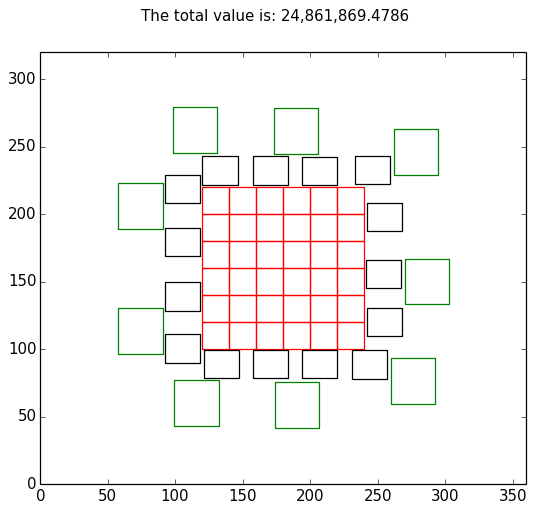
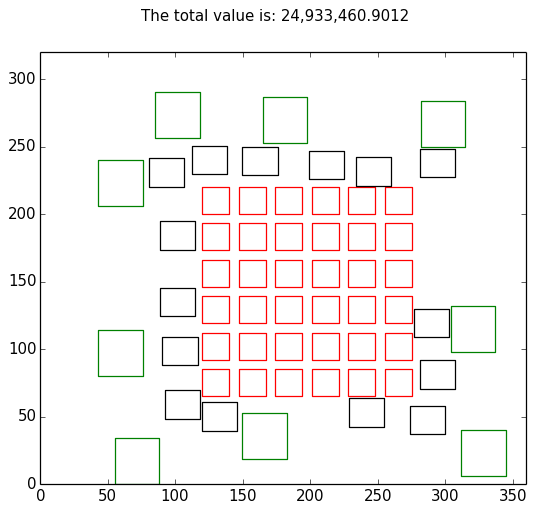
update

diff --git a/expanding_universe.py b/expanding_universe.py
@@ -25,7 +25,7 @@ def set_initial_map(total_houses):
     counter = 0
     for i in range(grid_size):
 
-        x = (X_DIMENSION - (classes.House.width * (grid_size - (2 * i)))) / 2
+        x = (X_DIMENSION - (classes.House.width * (grid_size - (2.7 * i)))) / 2
 
 
         for j in range(grid_size):
@@ -33,7 +33,7 @@ def set_initial_map(total_houses):
             if counter == h_number:
                 break
 
-            y = (Y_DIMENSION + (classes.House.length * (grid_size - 2 - (2 * j)))) / 2
+            y = (Y_DIMENSION + (classes.House.length * (grid_size - 2 - (2.7 * j)))) / 2
 
             counter += 1
             house = classes.House(x, y)
@@ -54,26 +54,26 @@ def set_initial_map(total_houses):
 
             if (bungalow.left_bottom[0] <= X_DIMENSION / 2) and (bungalow.left_bottom[1] >= Y_DIMENSION / 2) and olap:
                 while olap == True:
-                    bungalow = helpers.move(bungalow, 'left', 2)
-                    bungalow = helpers.move(bungalow, 'up', 2)
+                    bungalow = helpers.move(bungalow, 'left', 10)
+                    bungalow = helpers.move(bungalow, 'up', 10)
                     olap = helpers.overlap(bungalow, building)
 
             if (bungalow.left_bottom[0] <= X_DIMENSION / 2) and (bungalow.left_bottom[1] < Y_DIMENSION / 2) and olap:
                 while olap == True:
-                    bungalow = helpers.move(bungalow, 'left', 2)
-                    bungalow = helpers.move(bungalow, 'down', 2)
+                    bungalow = helpers.move(bungalow, 'left', 10)
+                    bungalow = helpers.move(bungalow, 'down', 10)
                     olap = helpers.overlap(bungalow, building)
 
             if (bungalow.left_bottom[0] > X_DIMENSION / 2) and (bungalow.left_bottom[1] <= Y_DIMENSION / 2) and olap:
                 while olap == True:
-                    bungalow = helpers.move(bungalow, 'right', 2)
-                    bungalow = helpers.move(bungalow, 'down', 2)
+                    bungalow = helpers.move(bungalow, 'right', 10)
+                    bungalow = helpers.move(bungalow, 'down', 10)
                     olap = helpers.overlap(bungalow, building)
 
             if (bungalow.left_bottom[0] > X_DIMENSION / 2) and (bungalow.left_bottom[1] > Y_DIMENSION / 2) and olap:
                 while olap == True:
-                    bungalow = helpers.move(bungalow, 'right', 2)
-                    bungalow = helpers.move(bungalow, 'up', 2)
+                    bungalow = helpers.move(bungalow, 'right', 10)
+                    bungalow = helpers.move(bungalow, 'up', 10)
                     olap = helpers.overlap(bungalow, building)
 
         buildings.append(bungalow)
@@ -92,26 +92,26 @@ def set_initial_map(total_houses):
 
             if (maison.left_bottom[0] <= X_DIMENSION / 2) and (maison.left_bottom[1] >= Y_DIMENSION / 2) and olap:
                 while olap == True:
-                    maison = helpers.move(maison, 'left', 2)
-                    maison = helpers.move(maison, 'up', 2)
+                    maison = helpers.move(maison, 'left', 15)
+                    maison = helpers.move(maison, 'up', 15)
                     olap = helpers.overlap(maison, building)
 
             if (maison.left_bottom[0] <= X_DIMENSION / 2) and (maison.left_bottom[1] < Y_DIMENSION / 2) and olap:
                 while olap == True:
-                    maison = helpers.move(maison, 'left', 2)
-                    maison = helpers.move(maison, 'down', 2)
+                    maison = helpers.move(maison, 'left', 15)
+                    maison = helpers.move(maison, 'down', 15)
                     olap = helpers.overlap(maison, building)
 
             if (maison.left_bottom[0] > X_DIMENSION / 2) and (maison.left_bottom[1] <= Y_DIMENSION / 2) and olap:
                 while olap == True:
-                    maison = helpers.move(maison, 'right', 2)
-                    maison = helpers.move(maison, 'down', 2)
+                    maison = helpers.move(maison, 'right', 15)
+                    maison = helpers.move(maison, 'down', 15)
                     olap = helpers.overlap(maison, building)
 
             if (maison.left_bottom[0] > X_DIMENSION / 2) and (maison.left_bottom[1] > Y_DIMENSION / 2) and olap:
                 while olap == True:
-                    maison = helpers.move(maison, 'right', 2)
-                    maison = helpers.move(maison, 'up', 2)
+                    maison = helpers.move(maison, 'right', 15)
+                    maison = helpers.move(maison, 'up', 15)
                     olap = helpers.overlap(maison, building)
 
         buildings.append(maison)

diff --git a/hillclimber_algoritm.py b/hillclimber_algoritm.py
@@ -52,7 +52,7 @@ def main(total_houses, iterations_hill, buildings):
                         map_score = score_down
                         best_direction = direction
 
-                helpers.move(building, best_direction, 1)
+                helpers.move(building, best_direction, 3)
 
     return buildings, map_score
 
@@ -87,31 +87,20 @@ def check_overlap(building, buildings, direction):
 
 def moved_score(building, buildings, direction):
 
-<<<<<<< HEAD
-    # visualisation.print_canvas(buildings, '1')
-    helpers.move(building, direction)
-    # visualisation.print_canvas(buildings, '2')
-    score = helpers.calculate_score(buildings)
-
-    if direction == 'left':
-        helpers.move(building, 'right')
-        # visualisation.print_canvas(buildings, '3')
-=======
     old_building = copy.deepcopy(building)
-    helpers.move(building, direction, 1)
+    helpers.move(building, direction, 3)
     score = helpers.calculate_score(buildings)
 
     if direction == 'left':
-        helpers.move(building, 'right', 1)
->>>>>>> 8178fe6afa59ab9ab4aa13ae18b9b67418dcf213
+        helpers.move(building, 'right', 3)
 
     if direction == 'up':
-        helpers.move(building, 'down', 1)
+        helpers.move(building, 'down', 3)
 
     if direction == 'right':
-        helpers.move(building, 'left', 1)
+        helpers.move(building, 'left', 3)
 
     if direction == 'down':
-        helpers.move(building, 'up', 1)
+        helpers.move(building, 'up', 3)
 
     return score
